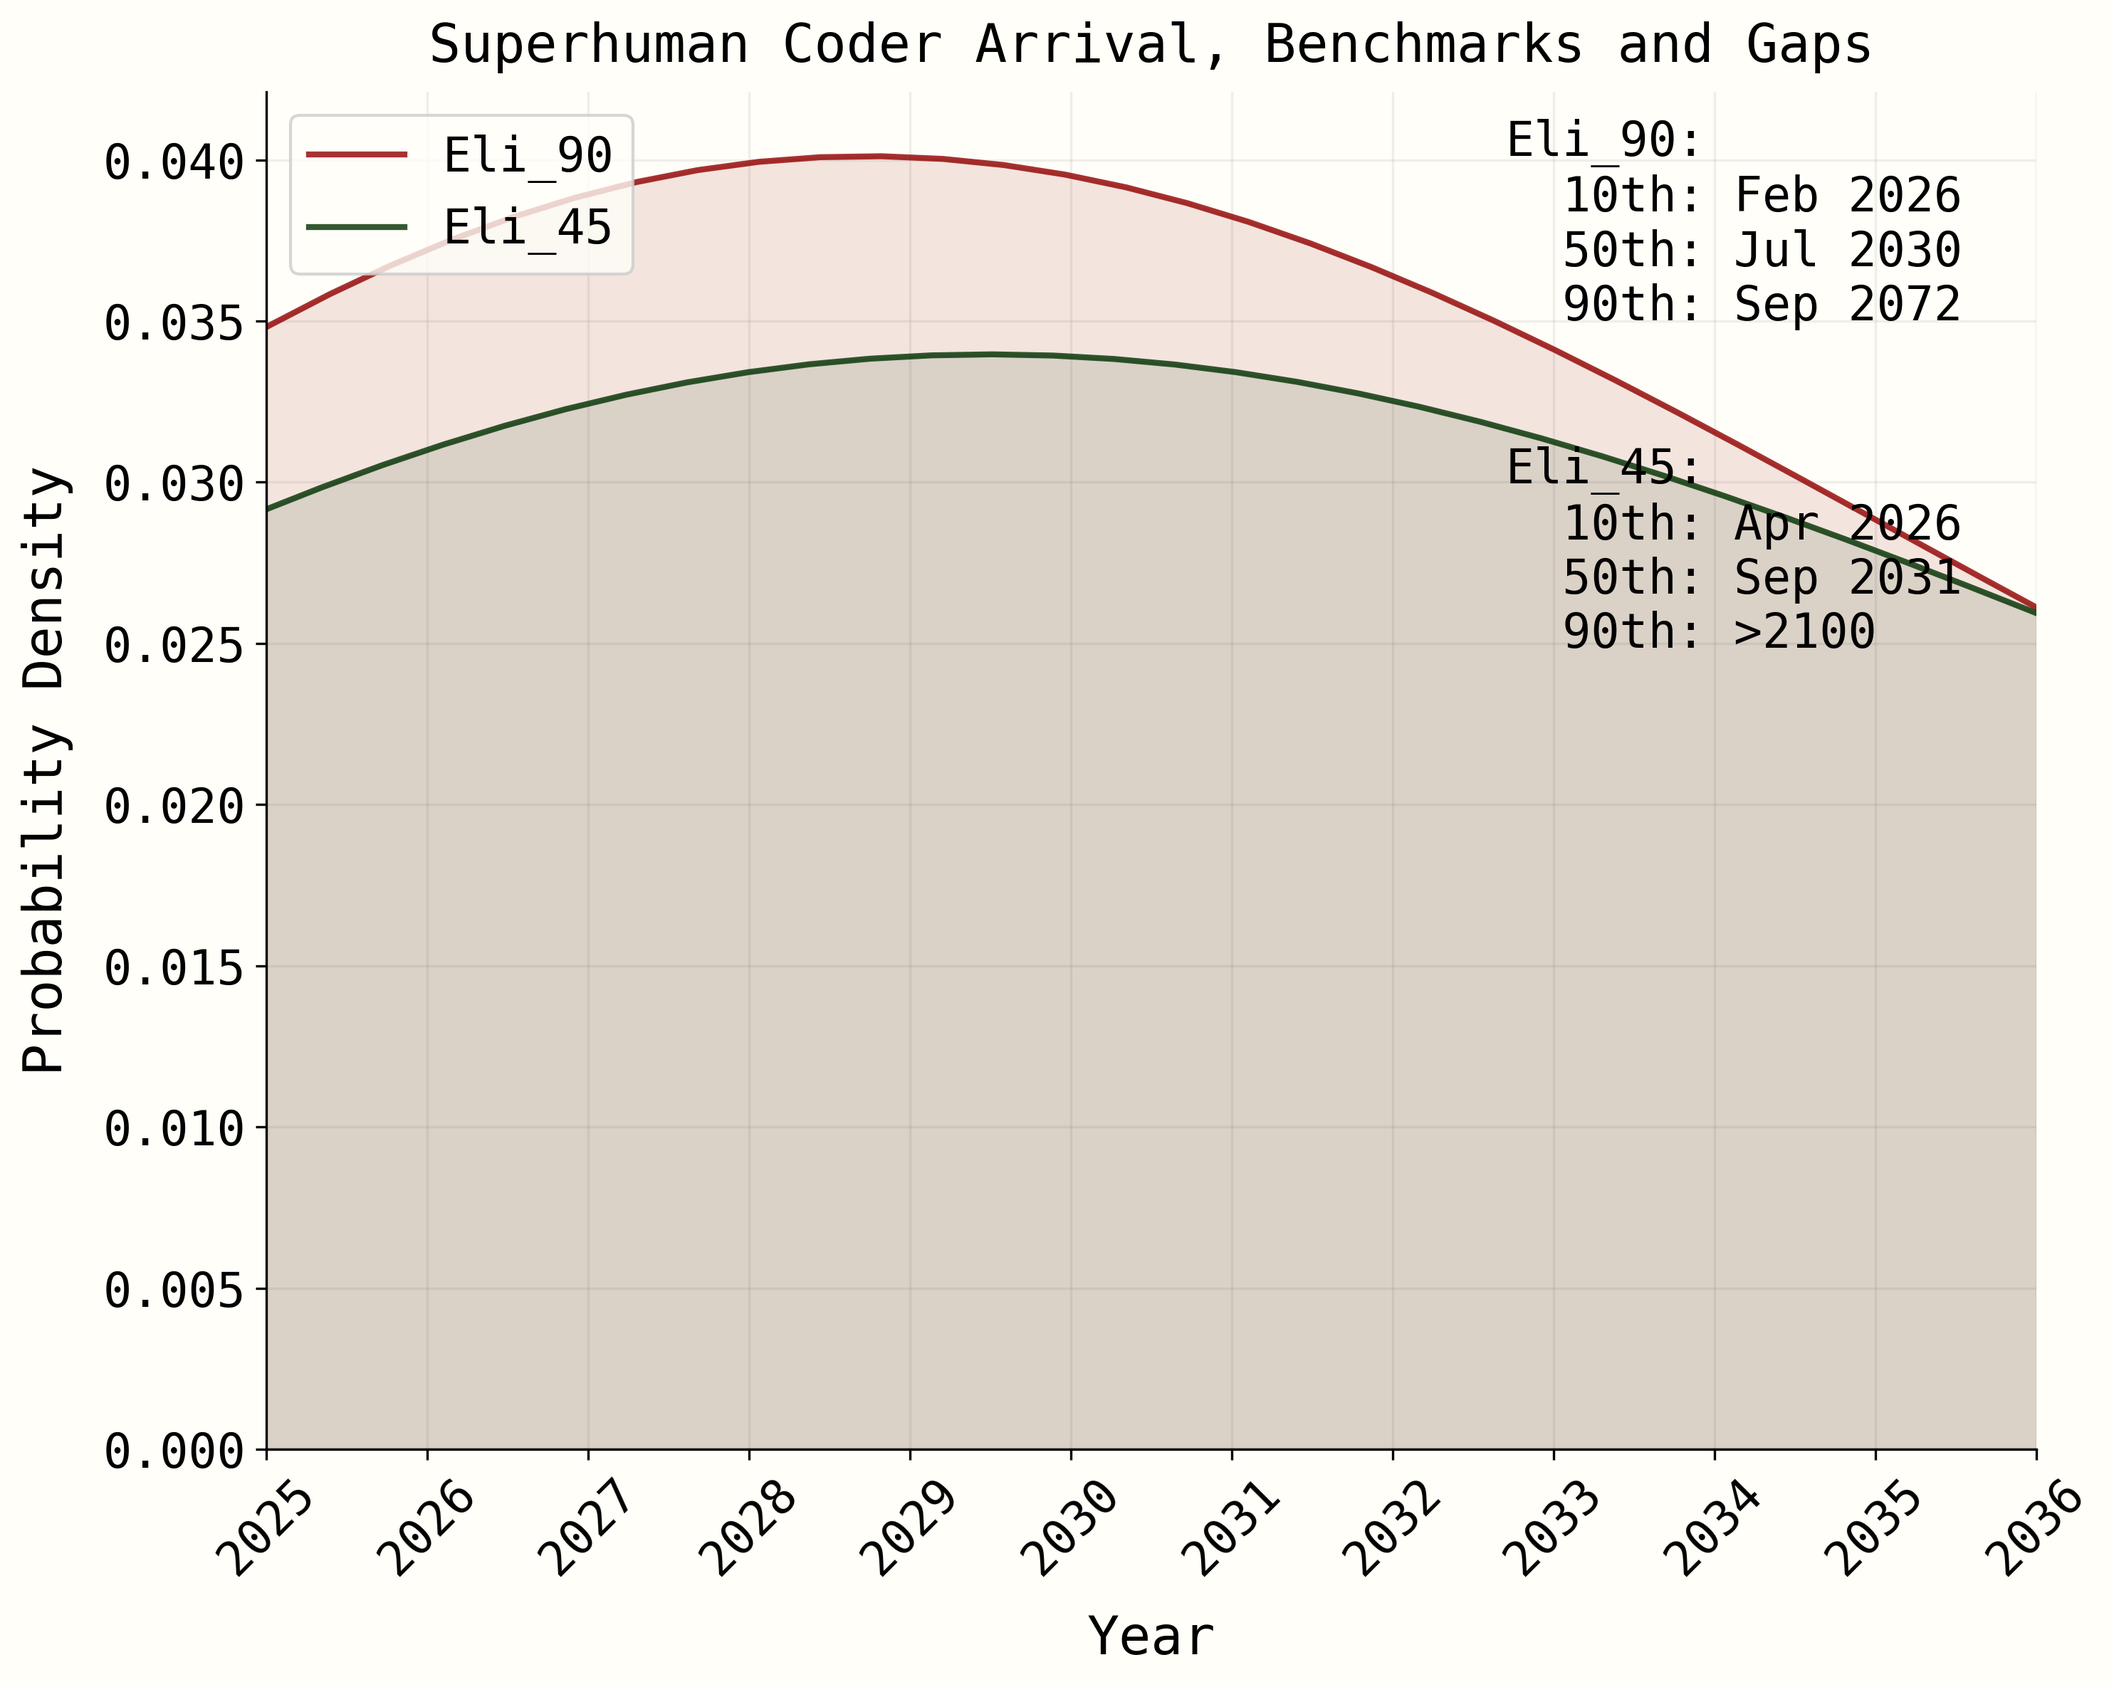
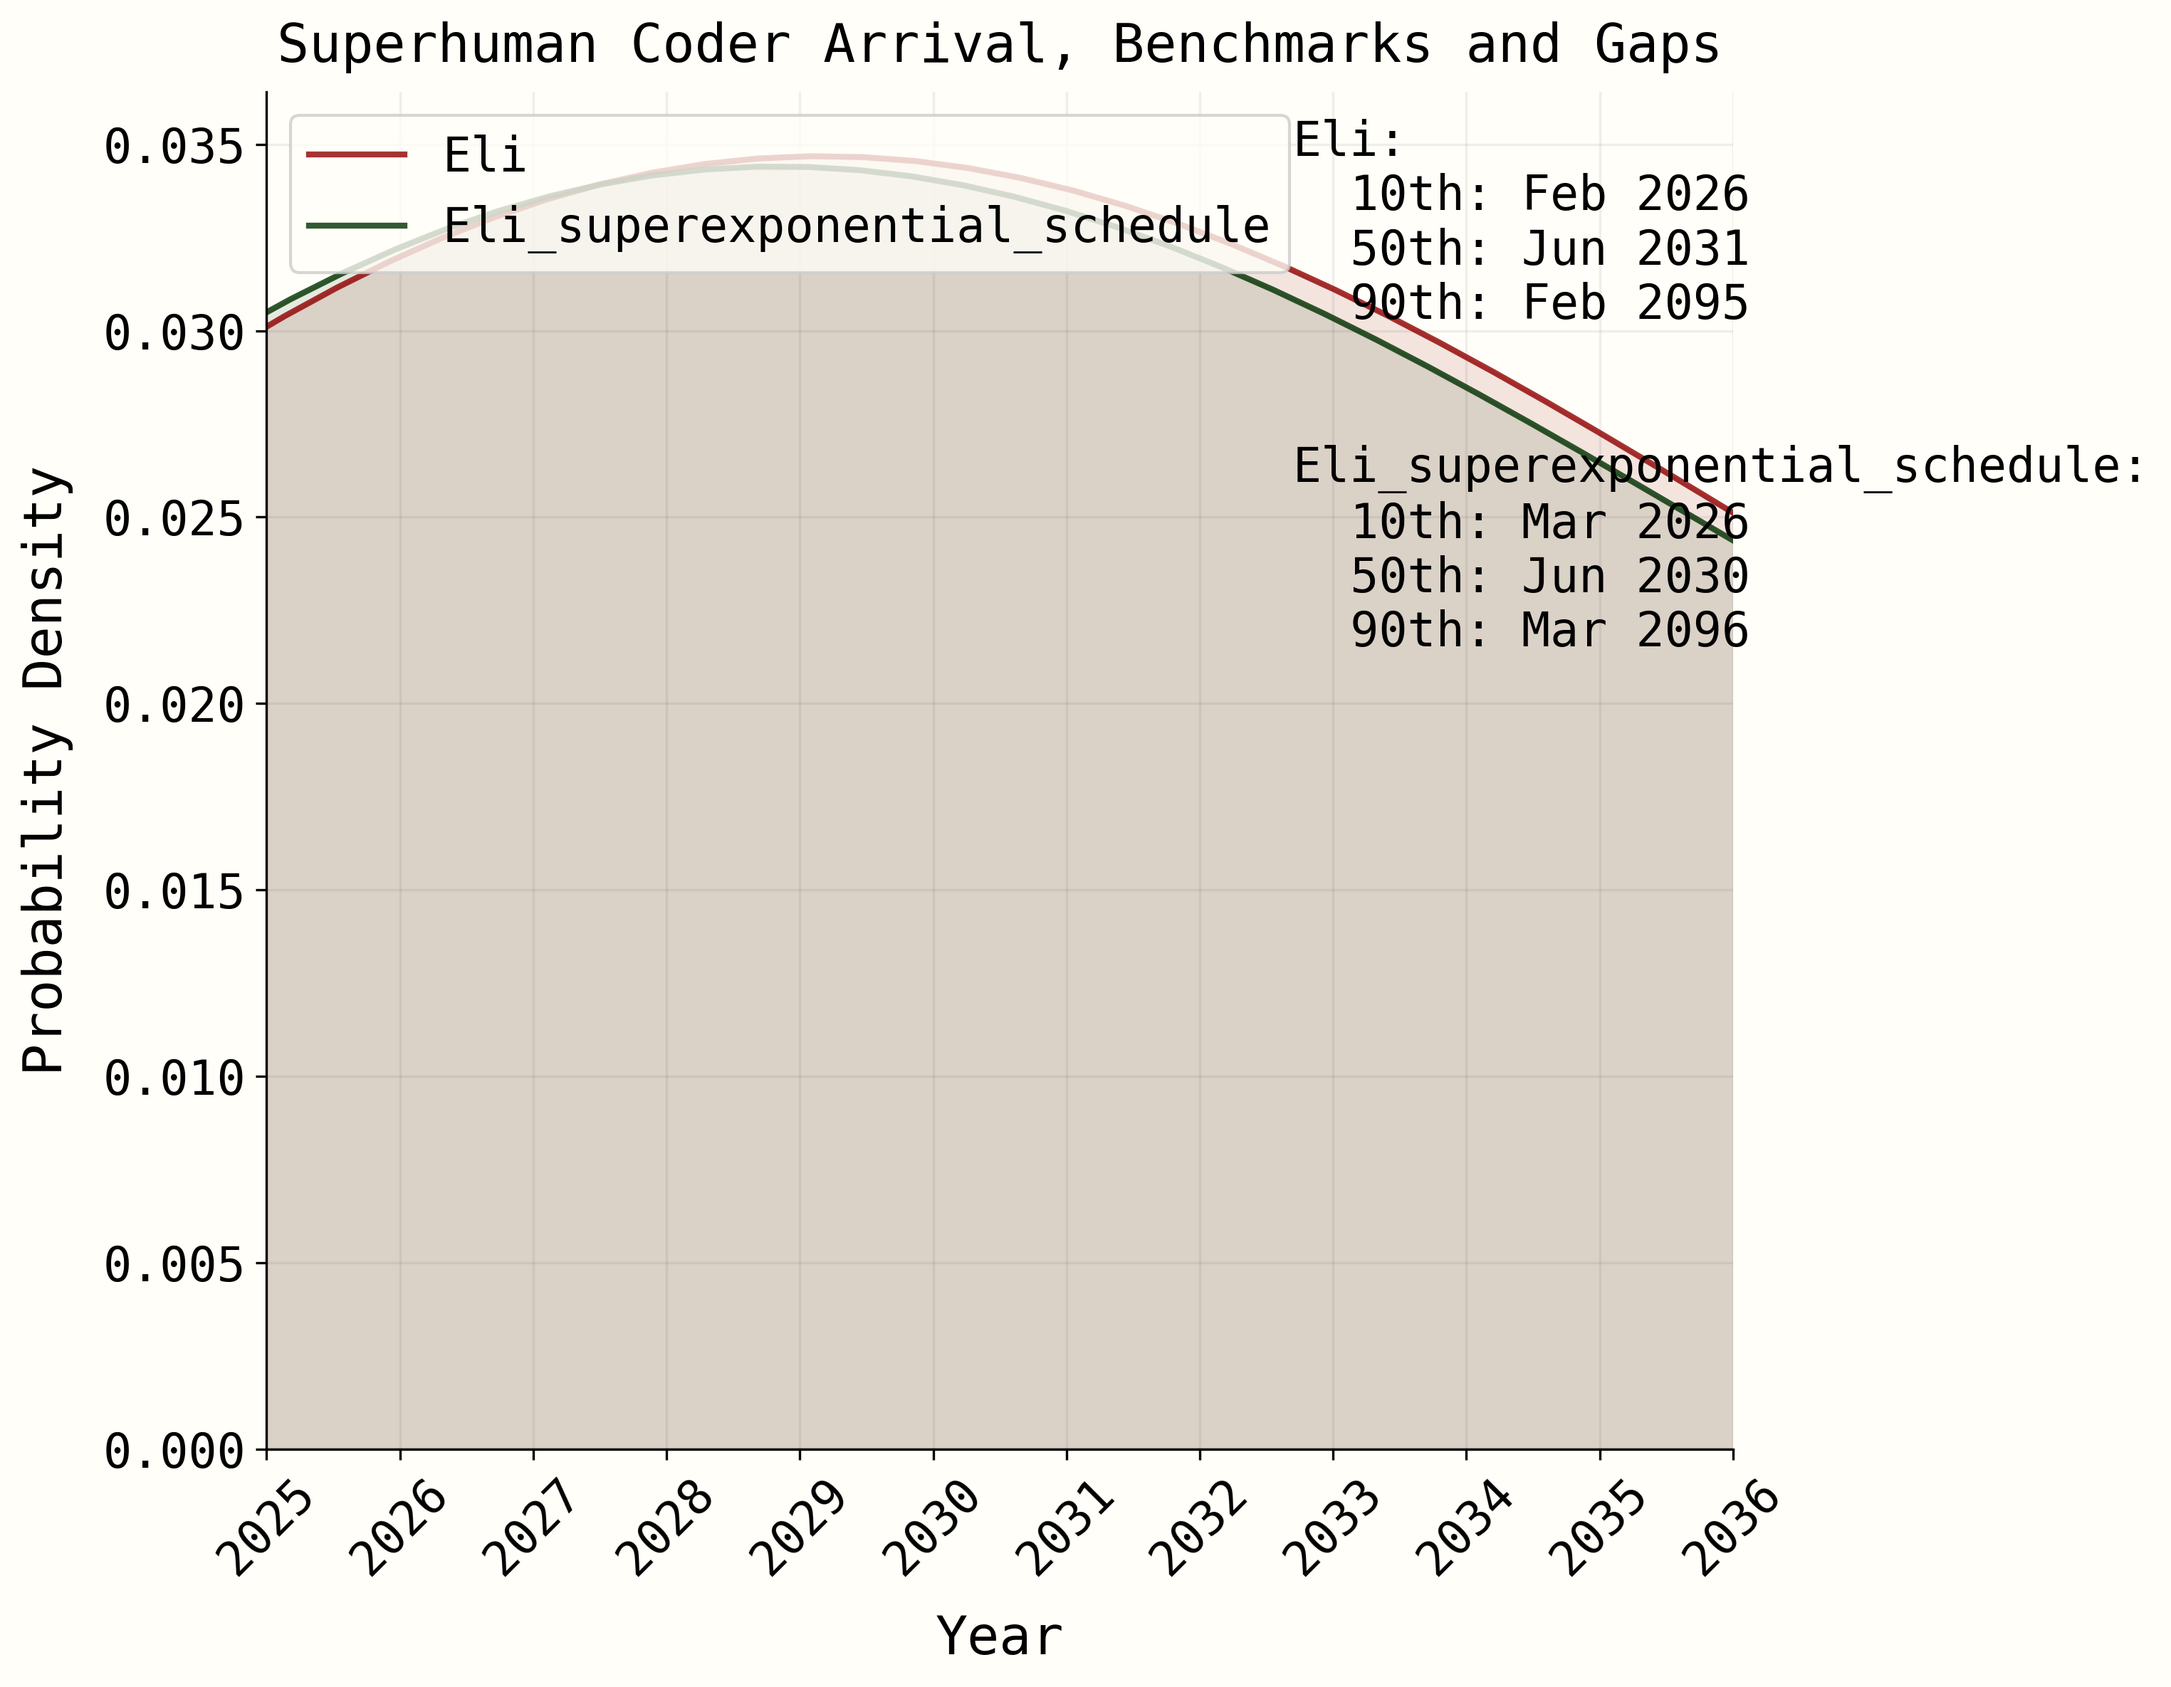
add superexponential schedule

diff --git a/timelines/simple_forecasting_timelines.py b/timelines/simple_forecasting_timelines.py
@@ -106,15 +106,27 @@ def get_distribution_samples(config: dict, n_sims: int, correlation: float = 0.7
     )
     samples["SC_prog_multiplier"] = dist.ppf(prog_uniform_samples[:, 1])
     
-    # Sample growth types independently
-    p_super = config["distributions"]["p_superexponential"]
+    # Store the superexponential schedule for later use
+    samples["superexponential_schedule_months"] = config["distributions"]["superexponential_schedule_months"]
+    
+    # Sample subexponential probability
     p_sub = config["distributions"]["p_subexponential"]
     
     # Generate independent uniform samples for growth type
     growth_type = np.random.uniform(0, 1, n_sims)
-    samples["is_superexponential"] = growth_type < p_super
-    samples["is_subexponential"] = (growth_type >= p_super) & (growth_type < (p_super + p_sub))
-    samples["is_exponential"] = ~(samples["is_superexponential"] | samples["is_subexponential"])
+    samples["is_subexponential"] = growth_type > (1 - p_sub)
+    samples["is_exponential"] = ~samples["is_subexponential"]
+    
+    # For each simulation, determine if and when it becomes superexponential
+    samples["superexponential_start_time"] = np.full(n_sims, np.inf)  # Default to never becoming superexponential
+    for i in range(n_sims):
+        if not samples["is_subexponential"][i]:  # Only consider non-subexponential cases
+            # Generate a random number to determine if/when it becomes superexponential
+            for horizon, prob in samples["superexponential_schedule_months"]:
+                if growth_type[i] < prob:
+                    # Store the horizon directly since it's already in months
+                    samples["superexponential_start_time"][i] = horizon
+                    break
     
     # Add growth/decay parameters
     samples["se_doubling_decay_fraction"] = config["distributions"]["se_doubling_decay_fraction"]
@@ -140,35 +152,46 @@ def calculate_base_time(samples: dict, current_horizon: float) -> np.ndarray:
     print(f"  Mean: {np.mean(n_doublings):.2f}")
     print(f"  Std Dev: {np.std(n_doublings):.2f}")
     
-    # Print growth type distribution
-    exp_mask = samples["is_exponential"]
-    se_mask = samples["is_superexponential"]
-    sub_mask = samples["is_subexponential"]
-    
     # Calculate total time based on growth type
     total_time = np.zeros_like(n_doublings)
     
-    # For regular exponential cases
-    exp_mask = samples["is_exponential"]
-    total_time[exp_mask] = n_doublings[exp_mask] * samples["horizon_doubling_time"][exp_mask]
-    
-    # For superexponential cases
-    se_mask = samples["is_superexponential"]
-    if np.any(se_mask):
-        decay = samples["se_doubling_decay_fraction"]
-        first_doubling_time = samples["horizon_doubling_time"][se_mask]
-        n = n_doublings[se_mask]
-        ratio = 1 - decay
-        total_time[se_mask] = first_doubling_time * (1 - ratio**n) / (1 - ratio)
-    
-    # For subexponential cases
-    sub_mask = samples["is_subexponential"]
-    if np.any(sub_mask):
-        growth = samples["sub_doubling_growth_fraction"]
-        first_doubling_time = samples["horizon_doubling_time"][sub_mask]
-        n = n_doublings[sub_mask]
-        ratio = 1 + growth
-        total_time[sub_mask] = first_doubling_time * (ratio**n - 1) / (ratio - 1)
+    # For each simulation, calculate time based on growth type and superexponential transition
+    for i in range(len(n_doublings)):
+        if samples["is_subexponential"][i]:
+            # Subexponential case
+            growth = samples["sub_doubling_growth_fraction"]
+            first_doubling_time = samples["horizon_doubling_time"][i]
+            n = n_doublings[i]
+            ratio = 1 + growth
+            total_time[i] = first_doubling_time * (ratio**n - 1) / (ratio - 1)
+        else:
+            # Start with exponential growth
+            n = n_doublings[i]
+            doubling_time = samples["horizon_doubling_time"][i]
+            
+            # Check if/when it becomes superexponential
+            superexponential_start = samples["superexponential_start_time"][i]
+            if superexponential_start < np.inf:
+                # Calculate how many doublings happen before superexponential transition
+                n_before = np.log2(superexponential_start/h_current)
+                n_before = min(n_before, n)  # Can't exceed total doublings needed
+                
+                # Calculate time for exponential phase
+                time_before = n_before * doubling_time
+                
+                # Calculate remaining doublings after transition
+                n_after = n - n_before
+                if n_after > 0:
+                    # Calculate time for superexponential phase
+                    decay = samples["se_doubling_decay_fraction"]
+                    ratio = 1 - decay
+                    time_after = doubling_time * (1 - ratio**n_after) / (1 - ratio)
+                    total_time[i] = time_before + time_after
+                else:
+                    total_time[i] = time_before
+            else:
+                # Pure exponential case
+                total_time[i] = n * doubling_time
     
     # Add cost and speed adjustment
     total_time += samples["cost_speed"]
@@ -179,6 +202,10 @@ def calculate_base_time(samples: dict, current_horizon: float) -> np.ndarray:
     
     # Print time distribution by growth type
     print("\nTime Distribution by Growth Type:")
+    exp_mask = ~samples["is_subexponential"] & (samples["superexponential_start_time"] == np.inf)
+    se_mask = ~samples["is_subexponential"] & (samples["superexponential_start_time"] < np.inf)
+    sub_mask = samples["is_subexponential"]
+    
     for mask, name in [(exp_mask, "Exponential"), (se_mask, "Superexponential"), (sub_mask, "Subexponential")]:
         if np.any(mask):
             times = total_time[mask]

diff --git a/timelines/forecasting_timelines.py b/timelines/forecasting_timelines.py
@@ -133,15 +133,27 @@ def get_distribution_samples(config: dict, n_sims: int, correlation: float = 0.7
     dist = get_lognormal_from_80_ci(*config["distributions"]["d_ci"])
     samples["d"] = dist.ppf(np.random.random(n_sims))  # Already in months
     
-    # Sample growth types independently
-    p_super = config["distributions"]["p_superexponential"]
+    # Store the superexponential schedule for later use
+    samples["superexponential_schedule_months"] = config["distributions"]["superexponential_schedule_months"]
+    
+    # Sample subexponential probability
     p_sub = config["distributions"]["p_subexponential"]
     
     # Generate independent uniform samples for growth type
     growth_type = np.random.uniform(0, 1, n_sims)
-    samples["is_superexponential"] = growth_type < p_super
-    samples["is_subexponential"] = (growth_type >= p_super) & (growth_type < (p_super + p_sub))
-    samples["is_exponential"] = ~(samples["is_superexponential"] | samples["is_subexponential"])
+    samples["is_subexponential"] = growth_type > (1 - p_sub)
+    samples["is_exponential"] = ~samples["is_subexponential"]
+    
+    # For each simulation, determine if and when it becomes superexponential
+    samples["superexponential_start_time"] = np.full(n_sims, np.inf)  # Default to never becoming superexponential
+    for i in range(n_sims):
+        if not samples["is_subexponential"][i]:  # Only consider non-subexponential cases
+            # Generate a random number to determine if/when it becomes superexponential
+            for horizon, prob in samples["superexponential_schedule_months"]:
+                if growth_type[i] < prob:
+                    # Store the horizon directly since it's already in months
+                    samples["superexponential_start_time"][i] = horizon
+                    break
     
     # Add growth/decay parameters
     samples["se_doubling_decay_fraction"] = config["distributions"]["se_doubling_decay_fraction"]
@@ -194,35 +206,41 @@ def calculate_gaps(samples: dict) -> tuple[np.ndarray, np.ndarray]:
     # Calculate horizon gap based on growth type
     g_h = np.zeros_like(n_doublings)
     
-    # For regular exponential cases
-    exp_mask = samples["is_exponential"]
-    g_h[exp_mask] = n_doublings[exp_mask] * samples["horizon_doubling_time"][exp_mask]
-    
-    # For superexponential cases
-    # Each doubling takes (1-decay)^k times as long as the first doubling
-    se_mask = samples["is_superexponential"]
-    if np.any(se_mask):
-        decay = samples["se_doubling_decay_fraction"]
-        first_doubling_time = samples["horizon_doubling_time"][se_mask]
-        n = n_doublings[se_mask]
-        ratio = 1 - decay
-        
-        # Use geometric series sum formula: T * (1-r^n)/(1-r)
-        # where T is first doubling time, r is (1-decay), n is number of doublings
-        g_h[se_mask] = first_doubling_time * (1 - ratio**n) / (1 - ratio)
-    
-    # For subexponential cases
-    # Each doubling takes (1+growth)^k times as long as the first doubling
-    sub_mask = samples["is_subexponential"]
-    if np.any(sub_mask):
-        growth = samples["sub_doubling_growth_fraction"]
-        first_doubling_time = samples["horizon_doubling_time"][sub_mask]
-        n = n_doublings[sub_mask]
-        ratio = 1 + growth
-        
-        # Use geometric series sum formula: T * (r^n-1)/(r-1)
-        # where T is first doubling time, r is (1+growth), n is number of doublings
-        g_h[sub_mask] = first_doubling_time * (ratio**n - 1) / (ratio - 1)
+    # For each simulation, determine if it becomes superexponential during the gap
+    for i in range(len(n_doublings)):
+        if samples["is_subexponential"][i]:
+            # For subexponential cases
+            # Each doubling takes (1+growth)^k times as long as the first doubling
+            growth = samples["sub_doubling_growth_fraction"]
+            first_doubling_time = samples["horizon_doubling_time"][i]
+            n = n_doublings[i]
+            ratio = 1 + growth
+            
+            # Use geometric series sum formula: T * (r^n-1)/(r-1)
+            # where T is first doubling time, r is (1+growth), n is number of doublings
+            g_h[i] = first_doubling_time * (ratio**n - 1) / (ratio - 1)
+        else:
+            # For non-subexponential cases, check if/when it becomes superexponential
+            superexponential_start = samples["superexponential_start_time"][i]
+            if superexponential_start < np.inf:
+                # Calculate how many doublings happen before superexponential transition
+                doublings_before = np.log2(superexponential_start/samples["h_sat"][i])
+                doublings_before = min(doublings_before, n_doublings[i])
+                doublings_after = n_doublings[i] - doublings_before
+                
+                # Calculate time for exponential phase
+                first_doubling_time = samples["horizon_doubling_time"][i]
+                g_h[i] = first_doubling_time * doublings_before
+                
+                # Calculate time for superexponential phase
+                if doublings_after > 0:
+                    decay = samples["se_doubling_decay_fraction"]
+                    ratio = 1 - decay
+                    # Use geometric series sum formula for remaining doublings
+                    g_h[i] += first_doubling_time * (1 - ratio**doublings_after) / (1 - ratio)
+            else:
+                # Pure exponential case
+                g_h[i] = samples["horizon_doubling_time"][i] * n_doublings[i]
     
     # Calculate total algorithmic gap including all slowdowns
     A_values = list(samples["A_values"].values())
